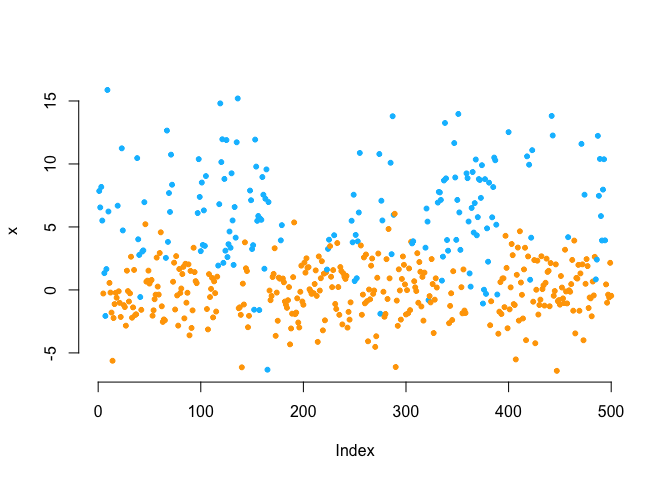
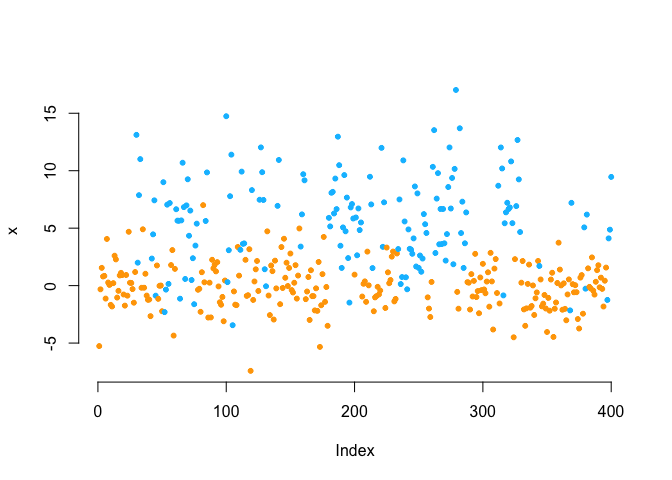
Updating README

diff --git a/README.md b/README.md
@@ -1,20 +1,25 @@
 
-# {Lcpp}: Convenient forward algorithm in C++
+# {Lcpp}: Forward algorithm in C++
 
-This package contains convenient R-wrapper functions of the forward
-algorithm used to estimate hidden Markov models (HMMs) via direct
-numerical maximum likelihood estimation. The algorithm calculates the
-negative log-likelihood recursively as a matrix product (see [Zucchini
+This package contains convenient R-wrapper functions for the **forward
+algorithm** used to fit **hidden Markov models** (HMMs), **hidden
+semi-Markov models** (HSMMs) and **state space models** (SSMs) via
+**direct numerical maximum likelihood estimation**. The algorithm
+calculates the log-likelihood recursively as a matrix product and uses a
+scaling strategy to avoid numerical underflow (for details see [Zucchini
 et
 al. 2016](https://www.taylorfrancis.com/books/mono/10.1201/b20790/hidden-markov-models-time-series-walter-zucchini-iain-macdonald-roland-langrock)).
-Thus, implementation in C++ offers 10-20 times faster evaluation times.
-Several versions are contained, including homogeneous HMMs and a general
-implementation with a pre-calculated array of transition probability
-matrices (t.p.m.s). These functions can then be included in the negative
-log-likelihood function, once the initial distribution (delta), the
-allprobs matrix and the t.p.m.(s) are calculated.
+Implementation in **C++** offers 10-20 times faster evaluation times,
+thus substantially speeding up estimation by e.g. `nlm()` or `optim()`.
+The two main implementations are `forward()` which should be used when
+fitting models with **homogeneous** transition probability matrices and
+`forward_g()` which should we used when fitting models with
+**covariates** affecting the state-process dynamics. The functions are
+built to be included in the negative log-likelihood function, after
+parameters have been transformed and the allprobs matrix (containing all
+state-dependent probabilities) has been calculated.
 
-Various different implementations will be added as needed. Have fun!
+Further algorithm variations will be added as needed. Have fun!
 
 ## Installation
 
@@ -24,7 +29,7 @@ devtools::install_github("janoleko/Lcpp")
 
 ## Example
 
-#### Generating some data from a 2-state HMM
+#### Generating data from a 2-state HMM
 
 ``` r
 # parameters
@@ -34,19 +39,21 @@ Gamma = matrix(c(0.5, 0.05, 0.15, 0.85), nrow = 2, byrow = TRUE)
 delta = c(0.5, 0.5)
 
 # simulation
-s = x = rep(NA, 500)
+s = x = rep(NA, 2000)
 s[1] = sample(1:2, 1, prob = delta)
 x[1] = stats::rnorm(1, mu[s[1]], sigma[s[1]])
-for(t in 2:500){
+for(t in 2:2000){
   s[t] = sample(1:2, 1, prob = Gamma[s[t-1],])
   x[t] = stats::rnorm(1, mu[s[t]], sigma[s[t]])
 }
 
-plot(x, bty = "n", pch = 20, col = c("orange", "deepskyblue")[s])
+plot(x[1:400], bty = "n", pch = 20, ylab = "x",
+     col = c("orange", "deepskyblue")[s[1:400]])
 ```
 
 <img src="man/figures/README-unnamed-chunk-3-1.png" width="75%" style="display: block; margin: auto;" />
-\#### Writing the negative log-likelihood function
+
+#### Writing the negative log-likelihood function
 
 ``` r
 mllk = function(theta.star, x){
@@ -65,27 +72,31 @@ mllk = function(theta.star, x){
 }
 ```
 
-#### Fit an HMM to the data
+#### Fitting an HMM to the data
 
 ``` r
-theta.star = c(-2,-2,0,5,log(2),log(3))
+theta.star = c(-2,-2,0,5,log(2),log(3)) # initial transformed parameters
 mod = stats::nlm(mllk, theta.star, x = x)
 ```
 
-#### Visulize some results
+#### Visualizing results
 
 ``` r
-# transform parameters
+# transform parameters to working
 Gamma = diag(2)
 Gamma[!Gamma] = exp(mod$estimate[1:2])
 Gamma = Gamma / rowSums(Gamma)
-delta = solve(t(diag(2)-Gamma+1), rep(1,2)) # stationary
+delta = solve(t(diag(2)-Gamma+1), rep(1,2)) # stationary HMM
 mu = mod$estimate[3:4]
 sigma = exp(mod$estimate[5:6])
 
-hist(x, prob = T, bor = "white", breaks = 40, main = "Marginal distributions")
-curve(delta[1]*dnorm(x, mu[1], sigma[1]), add = T, lwd = 2, col = "orange")
-curve(delta[2]*dnorm(x, mu[2], sigma[2]), add = T, lwd = 2, col = "deepskyblue")
+hist(x, prob = TRUE, bor = "white", breaks = 40, main = "")
+curve(delta[1]*dnorm(x, mu[1], sigma[1]), add = TRUE, lwd = 2, col = "orange")
+curve(delta[2]*dnorm(x, mu[2], sigma[2]), add = TRUE, lwd = 2, col = "deepskyblue")
+curve(delta[1]*dnorm(x, mu[1], sigma[1])+delta[2]*dnorm(x, mu[2], sigma[2]),
+      add = TRUE, lwd = 2, lty = "dashed")
+legend("topright", col = c("orange", "deepskyblue", "black"), lwd = 2, bty = "n",
+       lty = c(1,1,2), legend = c("state 1", "state 2", "marginal"))
 ```
 
 <img src="man/figures/README-unnamed-chunk-6-1.png" width="75%" style="display: block; margin: auto;" />
